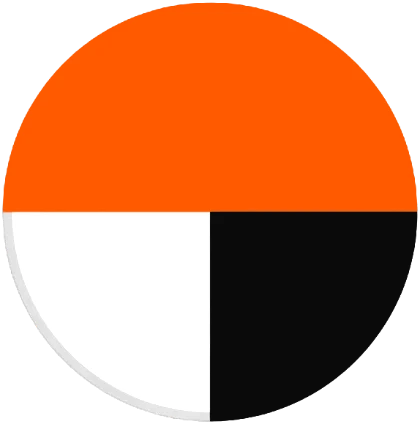
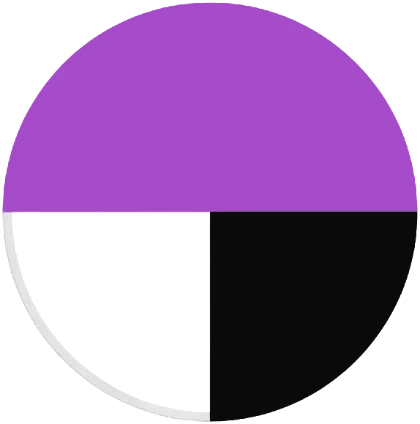
Phone palette: purple A64AC9 accent, neutral delete buttons

diff --git a/client/src/styles/mobile.css b/client/src/styles/mobile.css
@@ -15,7 +15,7 @@
 .ptoast span { color: var(--c-muted); font-size: 14px; }
 @keyframes ptoast-in { from { transform: translate(-50%, -20px); opacity: 0; } }
 
-/* Палитра телефона: только чёрный 0A0A0A, белый FFFFFF и оранжевый FF5A00.
+/* Палитра телефона: только чёрный 0A0A0A, белый FFFFFF и фиолетовый A64AC9.
    Серые оттенки — это те же чёрный и белый с прозрачностью. */
 @media (max-width: 1023px) {
   :root {
@@ -27,19 +27,19 @@
     --c-line-strong: rgb(10 10 10 / .16);
     --c-row-hover: rgb(10 10 10 / .04);
     --c-soft: rgb(10 10 10 / .05);
-    --c-primary: #FF5A00;
+    --c-primary: #A64AC9;
     --c-on-primary: #FFFFFF;
-    --c-signal: #FF5A00;
+    --c-signal: #A64AC9;
     --c-ok: #0A0A0A;
-    --c-danger: #FF5A00;
-    --c-danger-solid: #FF5A00;
-    --c-focus: #FF5A00;
+    --c-danger: #A64AC9;
+    --c-danger-solid: #A64AC9;
+    --c-focus: #A64AC9;
     --c-nav: #FFFFFF;
     --c-active: rgb(10 10 10 / .05);
     --plate-bg: #FFFFFF;
     --plate-ink: #0A0A0A;
     --plate-strip: #0A0A0A;
-    --c-orange-soft: rgb(255 90 0 / .14);
+    --c-orange-soft: rgb(166 74 201 / .14);
     --c-solid-soft: #F2F2F2;
     --bar-expense: #0A0A0A;
 
@@ -60,9 +60,11 @@
     --c-row-hover: rgb(255 255 255 / .05);
     --c-soft: rgb(255 255 255 / .08);
     --c-ok: #FFFFFF;
+    --c-danger: #A64AC9;
+    --c-danger-solid: #A64AC9;
     --c-nav: #0A0A0A;
     --c-active: rgb(255 255 255 / .08);
-    --c-orange-soft: rgb(255 90 0 / .2);
+    --c-orange-soft: rgb(166 74 201 / .2);
     --c-solid-soft: color-mix(in srgb, #FFFFFF 12%, #0A0A0A);
     --bar-expense: #FFFFFF;
 
@@ -77,16 +79,17 @@
   /* Кнопки */
   :root .btn:hover,
   :root .btn--danger:hover,
-  :root .btn--report:hover { background: color-mix(in srgb, #FF5A00 88%, #0A0A0A); }
+  :root .btn--report:hover { background: color-mix(in srgb, #A64AC9 88%, #0A0A0A); }
   :root .btn--quiet:hover,
   :root .btn--ghost:hover,
   :root .chip:hover,
   :root .nav__link:hover { background: var(--c-soft); }
-  :root .btn--danger { color: #FFFFFF; }
+  :root .btn--danger,
+  :root .btn--danger:hover { background: var(--c-ink); color: var(--c-bg); }
   :root .btn--ok,
   :root .btn--ok:hover { background: var(--c-ink); color: var(--c-bg); }
-  :root .btn--report { background: #FF5A00; color: #FFFFFF; animation: none; box-shadow: 0 6px 18px -6px rgb(255 90 0 / .7); }
-  :root .btn--report__plus { background: #FFFFFF; color: #FF5A00; }
+  :root .btn--report { background: #A64AC9; color: #FFFFFF; animation: none; box-shadow: 0 6px 18px -6px rgb(166 74 201 / .7); }
+  :root .btn--report__plus { background: #FFFFFF; color: #A64AC9; }
 
   /* Номер машины */
   :root .plate { background: #FFFFFF; color: #0A0A0A; border-color: #0A0A0A; }
@@ -96,7 +99,7 @@
   :root .plate__flag b { color: #0A0A0A; }
   :root[data-theme='dark'] .plate { box-shadow: 0 0 0 1px #FFFFFF; }
 
-  /* Статусы и метки: оранжевый — внимание и долг, чёрный/белый — норма */
+  /* Статусы и метки: фиолетовый — внимание и долг, чёрный/белый — норма */
   :root .status { background: var(--c-soft); color: var(--c-ink); }
   :root .status--wait,
   :root .badge--wait,
@@ -107,12 +110,12 @@
   :root .notice--idle,
   :root .pay-status--wait,
   :root .cpick__status--rent,
-  :root .rs-cell--part { background: var(--c-orange-soft); color: #FF5A00; }
+  :root .rs-cell--part { background: var(--c-orange-soft); color: #A64AC9; }
   :root .status--bad,
   :root .badge--danger,
   :root .pay-status--unpaid,
   :root .rs-cell--unpaid,
-  :root .car-tab__count--alert { background: #FF5A00; color: #FFFFFF; }
+  :root .car-tab__count--alert { background: #A64AC9; color: #FFFFFF; }
   :root .status--done,
   :root .badge--ok,
   :root .tx__icon--in,
@@ -124,11 +127,11 @@
   :root .avatar--muted { background: var(--c-soft); color: var(--c-muted); }
   :root .rs-cell--paid { background: var(--c-ink); color: var(--c-bg); }
   :root .rs-dot--paid { background: var(--c-ink); }
-  :root .rs-dot--part { background: rgb(255 90 0 / .45); }
-  :root .rs-dot--unpaid { background: #FF5A00; }
+  :root .rs-dot--part { background: rgb(166 74 201 / .45); }
+  :root .rs-dot--unpaid { background: #A64AC9; }
   :root .rs-dot--ahead { background: var(--c-soft); border-color: var(--c-ink); }
   :root .rs-hero { color: #FFFFFF; }
-  :root .rs-hero--bad { background: #FF5A00; }
+  :root .rs-hero--bad { background: #A64AC9; }
   :root .rs-hero--ok { background: #0A0A0A; }
   :root[data-theme='dark'] .rs-hero--ok { background: var(--c-solid-soft); }
   :root .stat--accent .stat__label,
@@ -139,15 +142,15 @@
   /* Карточки, календарь, переключатели */
   :root .ct { --ct-box: var(--c-solid-soft); }
   :root .ct:hover .ct__visual { background: var(--c-solid-soft); }
-  :root .ct--alert .ct__visual { box-shadow: inset 0 0 0 2px #FF5A00; }
+  :root .ct--alert .ct__visual { box-shadow: inset 0 0 0 2px #A64AC9; }
   :root .ct__edit { background: var(--c-surface); color: var(--c-ink); }
   :root .ct__edit:hover { background: var(--c-solid-soft); }
   :root .car-card:hover,
   :root a.person:hover,
   :root .person--link:hover { border-color: var(--c-line-strong); box-shadow: 0 6px 18px rgb(10 10 10 / .08); }
-  :root .car-card--alert { border-color: #FF5A00; }
+  :root .car-card--alert { border-color: #A64AC9; }
   :root .avatar { background: var(--c-soft); color: var(--c-ink); }
-  :root .panel--yellow { background: var(--c-orange-soft); border-color: rgb(255 90 0 / .4); }
+  :root .panel--yellow { background: var(--c-orange-soft); border-color: rgb(166 74 201 / .4); }
   :root .seg { background: var(--c-soft); }
   :root .seg__btn { color: var(--c-muted); }
   :root .seg__btn--on { background: var(--c-ink); color: var(--c-bg); box-shadow: none; }
@@ -155,12 +158,12 @@
   :root .chip--on,
   :root .chip--on:hover { background: var(--c-ink); border-color: var(--c-ink); color: var(--c-bg); }
   :root .cal__day--on,
-  :root .cal__day--on:hover:not(:disabled) { background: #FF5A00; color: #FFFFFF; }
+  :root .cal__day--on:hover:not(:disabled) { background: #A64AC9; color: #FFFFFF; }
   :root .cal__day--new { box-shadow: inset 0 0 0 2px var(--c-ink); }
   :root .cal__day--idle,
-  :root .cal__day--idle:hover:not(:disabled) { background: var(--c-orange-soft); color: #FF5A00; }
-  :root .dh__item--now .dh__dot { background: #FF5A00; box-shadow: 0 0 0 4px rgb(255 90 0 / .18); }
-  :root .dh__item--hit .dh__body { box-shadow: inset 3px 0 0 #FF5A00; }
+  :root .cal__day--idle:hover:not(:disabled) { background: var(--c-orange-soft); color: #A64AC9; }
+  :root .dh__item--now .dh__dot { background: #A64AC9; box-shadow: 0 0 0 4px rgb(166 74 201 / .18); }
+  :root .dh__item--hit .dh__body { box-shadow: inset 3px 0 0 #A64AC9; }
   :root .bar--expense { background: var(--bar-expense); }
   :root .tx--pending { background: linear-gradient(90deg, var(--c-orange-soft), transparent); }
   :root .modal__close { background: var(--c-soft); color: var(--c-ink); }
@@ -173,15 +176,15 @@
 
   /* Месячные показатели */
   :root .mf-delta--up { color: var(--c-ink); }
-  :root .mf-delta--down { color: #FF5A00; }
+  :root .mf-delta--down { color: #A64AC9; }
   :root .mf-bar--in { background: var(--c-ink); }
-  :root .mf-bar--out { background: #FF5A00; }
-  :root .mf-alert { background: #FF5A00; color: #FFFFFF; }
+  :root .mf-bar--out { background: #A64AC9; }
+  :root .mf-alert { background: #A64AC9; color: #FFFFFF; }
 
   /* Колокольчик и баннер обновления */
   :root .bell { background: var(--c-ink); color: var(--c-bg); }
   :root .bell--active { box-shadow: 0 0 0 3px var(--c-bg), 0 0 0 5px var(--c-ink); }
-  :root .bell__count { background: #FF5A00; color: #FFFFFF; }
+  :root .bell__count { background: #A64AC9; color: #FFFFFF; }
   :root .update-banner { background: #0A0A0A; color: #FFFFFF; }
   :root[data-theme='dark'] .update-banner { box-shadow: 0 0 0 1px rgb(255 255 255 / .16); }
 
@@ -189,16 +192,16 @@
   :root .dsec__icon--tg,
   :root .dsec__icon--map { background: var(--c-ink); color: var(--c-bg); }
   :root .dnet:not(.dnet--minus) { background: var(--c-ink); color: var(--c-bg); }
-  :root .dnet--minus { background: #FF5A00; color: #FFFFFF; }
-  :root .pushcard:not(.pushcard--muted) { background: #FF5A00; color: #FFFFFF; box-shadow: 0 8px 22px rgb(255 90 0 / .25); }
+  :root .dnet--minus { background: #A64AC9; color: #FFFFFF; }
+  :root .pushcard:not(.pushcard--muted) { background: #A64AC9; color: #FFFFFF; box-shadow: 0 8px 22px rgb(166 74 201 / .25); }
   :root .pushcard__error { color: #0A0A0A; }
   :root .pushcard__btn { background: #0A0A0A; border-color: #0A0A0A; color: #FFFFFF; }
-  :root .pushguide__num { background: #FF5A00; color: #FFFFFF; }
-  :root .pushguide__key { background: var(--c-surface); color: #FF5A00; }
-  :root .pushguide__arrow { color: #FF5A00; text-shadow: 0 2px 10px rgb(10 10 10 / .5); }
+  :root .pushguide__num { background: #A64AC9; color: #FFFFFF; }
+  :root .pushguide__key { background: var(--c-surface); color: #A64AC9; }
+  :root .pushguide__arrow { color: #A64AC9; text-shadow: 0 2px 10px rgb(10 10 10 / .5); }
   :root .earn-actions .earn-actions__in { background: var(--c-ink); border-color: var(--c-ink); color: var(--c-bg); }
-  :root .earn-actions .earn-actions__out { background: #FF5A00; border-color: #FF5A00; color: #FFFFFF; }
-  :root .shero { background: #FF5A00; color: #FFFFFF; box-shadow: 0 12px 28px rgb(255 90 0 / .28); }
+  :root .earn-actions .earn-actions__out { background: #A64AC9; border-color: #A64AC9; color: #FFFFFF; }
+  :root .shero { background: #A64AC9; color: #FFFFFF; box-shadow: 0 12px 28px rgb(166 74 201 / .28); }
   :root .shero__btn { background: var(--c-ink); border-color: var(--c-ink); color: var(--c-bg); }
   html:root .eitem__icon,
   html:root .kind-btn--on { background: var(--c-orange-soft); }
@@ -210,31 +213,31 @@
   :root .qchip--on { color: #FFFFFF; }
   :root .kmbadge { background: var(--c-soft); }
   :root .kmbadge b { color: var(--c-ink); }
-  :root .kmbadge--bad { background: var(--c-orange-soft); color: #FF5A00; }
-  :root .mweek__col > span:not(.mweek__empty) { background: #FF5A00; }
+  :root .kmbadge--bad { background: var(--c-orange-soft); color: #A64AC9; }
+  :root .mweek__col > span:not(.mweek__empty) { background: #A64AC9; }
   :root .stoast { background: #0A0A0A; color: #FFFFFF; }
   :root[data-theme='dark'] .stoast { box-shadow: 0 0 0 1px rgb(255 255 255 / .16), 0 12px 30px rgb(10 10 10 / .5); }
-  :root .stoast__check { background: #FF5A00; }
-  :root .odo { background: #0A0A0A; box-shadow: 0 0 0 3px #FF5A00; }
+  :root .stoast__check { background: #A64AC9; }
+  :root .odo { background: #0A0A0A; box-shadow: 0 0 0 3px #A64AC9; }
   :root .odo__cell { background: #0A0A0A; color: #FFFFFF; box-shadow: inset 0 0 0 1px rgb(255 255 255 / .12); }
   :root .odo__cell::after { background: none; }
   :root .odo__cell--lead,
   :root .odo--ghost .odo__cell { color: rgb(255 255 255 / .35); }
-  :root .kgauge__needle line { stroke: #FF5A00; }
+  :root .kgauge__needle line { stroke: #A64AC9; }
   :root .xhead,
   :root .xhead--gas,
   :root .xhead--charge,
   :root .xhead--wash,
   :root .xhead--lunch,
-  :root .xhead--other { --k: #FF5A00; }
+  :root .xhead--other { --k: #A64AC9; }
   :root .xhead__per { color: var(--c-ink); }
   :root .tank__fill,
   :root .tank__fill--gas,
-  :root .tank__fill--charge { background: #FF5A00; }
-  :root .msuccess__check { background: #FF5A00; color: #FFFFFF; box-shadow: 0 0 0 0 rgb(255 90 0 / .5); animation: bigCheck .6s cubic-bezier(.3, 1.8, .5, 1) both, ring-o 1.2s .3s ease-out; }
-  :root .msuccess__km { color: #FF5A00; }
+  :root .tank__fill--charge { background: #A64AC9; }
+  :root .msuccess__check { background: #A64AC9; color: #FFFFFF; box-shadow: 0 0 0 0 rgb(166 74 201 / .5); animation: bigCheck .6s cubic-bezier(.3, 1.8, .5, 1) both, ring-o 1.2s .3s ease-out; }
+  :root .msuccess__km { color: #A64AC9; }
 }
-@keyframes ring-o { to { box-shadow: 0 0 0 28px rgb(255 90 0 / 0); } }
+@keyframes ring-o { to { box-shadow: 0 0 0 28px rgb(166 74 201 / 0); } }
 
 @media (max-width: 1023px) {
   .topbar {

diff --git a/client/src/pages/DriverSections.jsx b/client/src/pages/DriverSections.jsx
@@ -332,7 +332,7 @@ function KmGauge({ km }) {
   );
 }
 
-const CONFETTI = ['#FF5A00', '#0A0A0A', '#FF5A00', '#0A0A0A', '#FFFFFF', '#FF5A00'];
+const CONFETTI = ['#A64AC9', '#0A0A0A', '#A64AC9', '#0A0A0A', '#FFFFFF', '#A64AC9'];
 
 function SavedBurst({ line }) {
   return (
